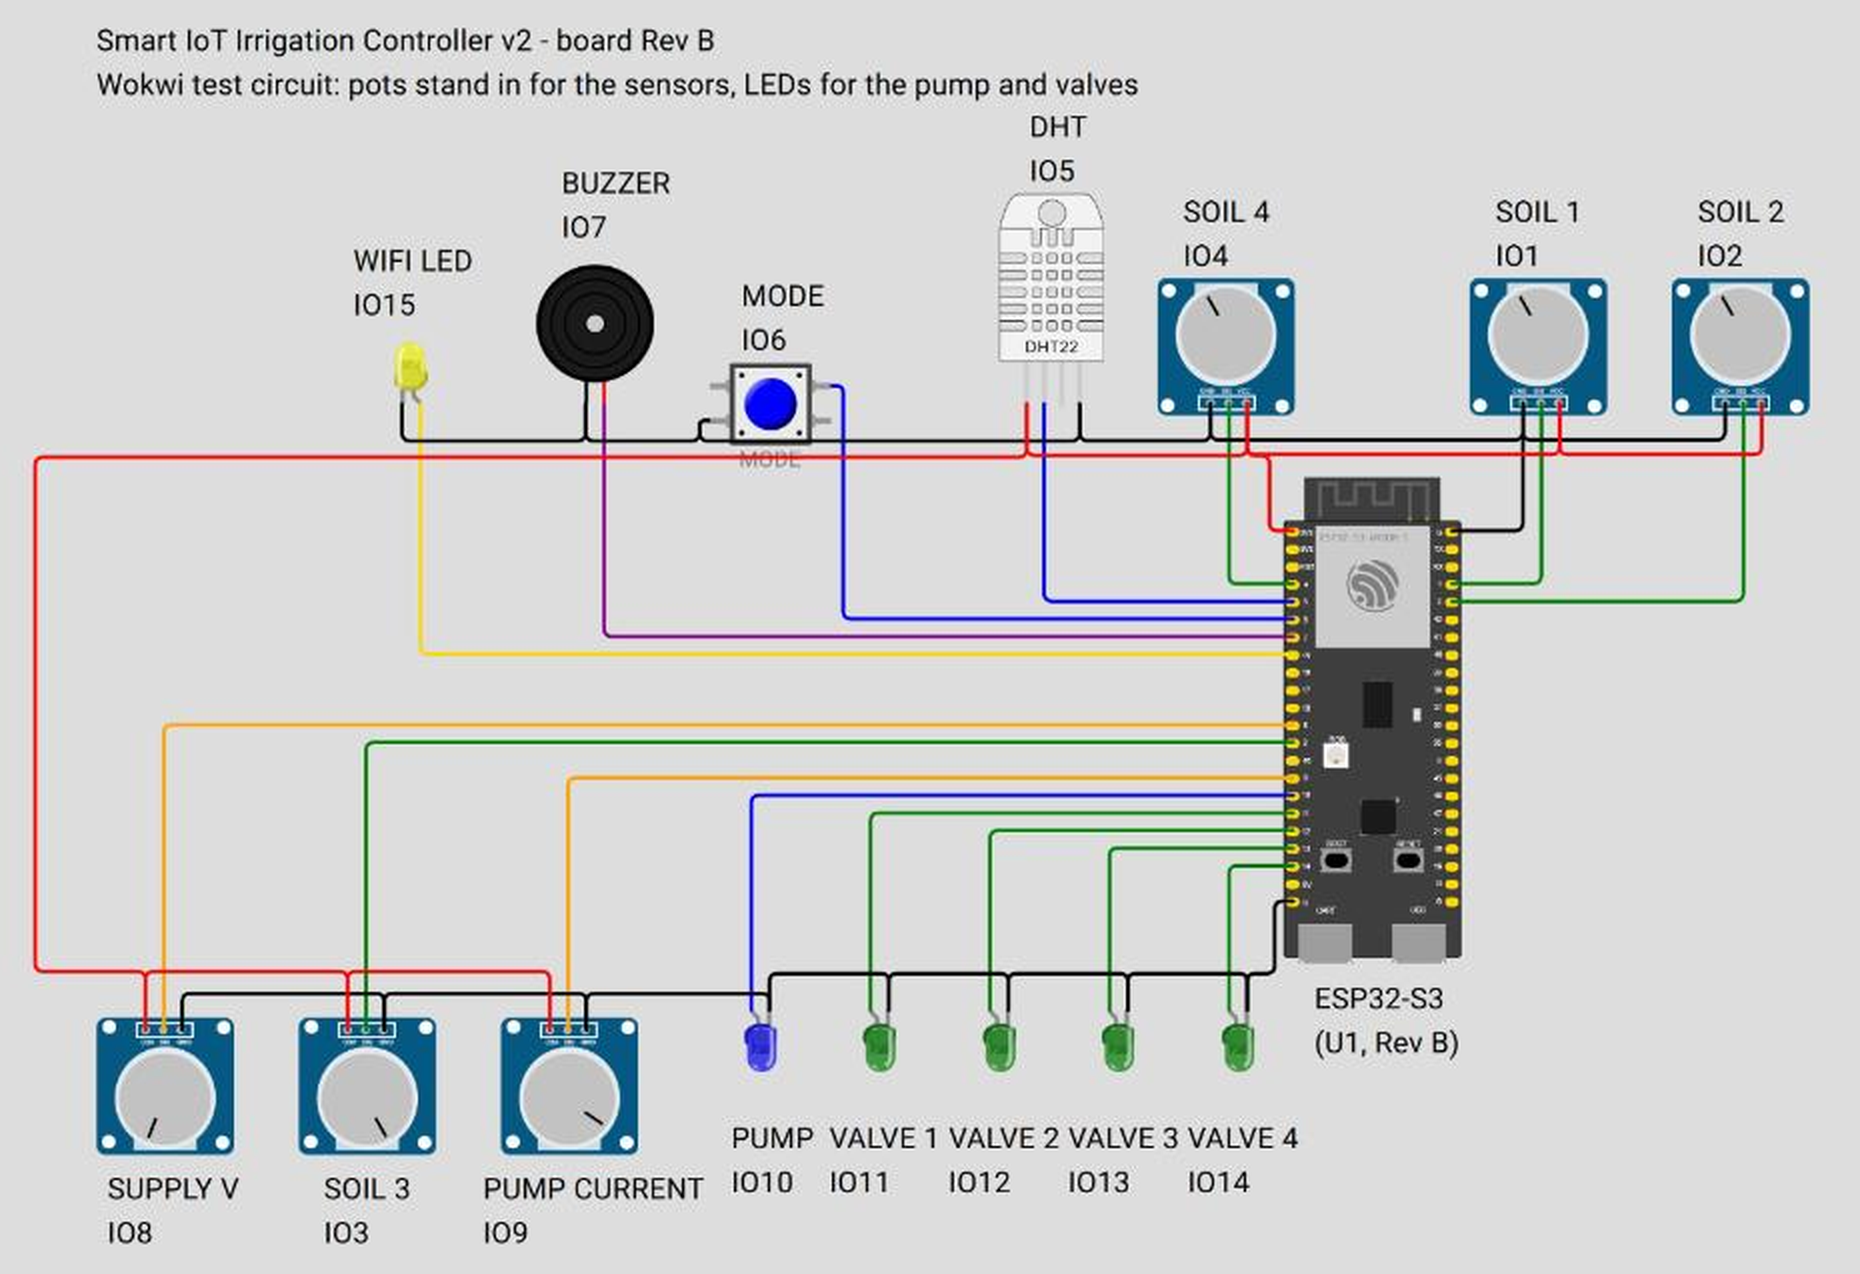
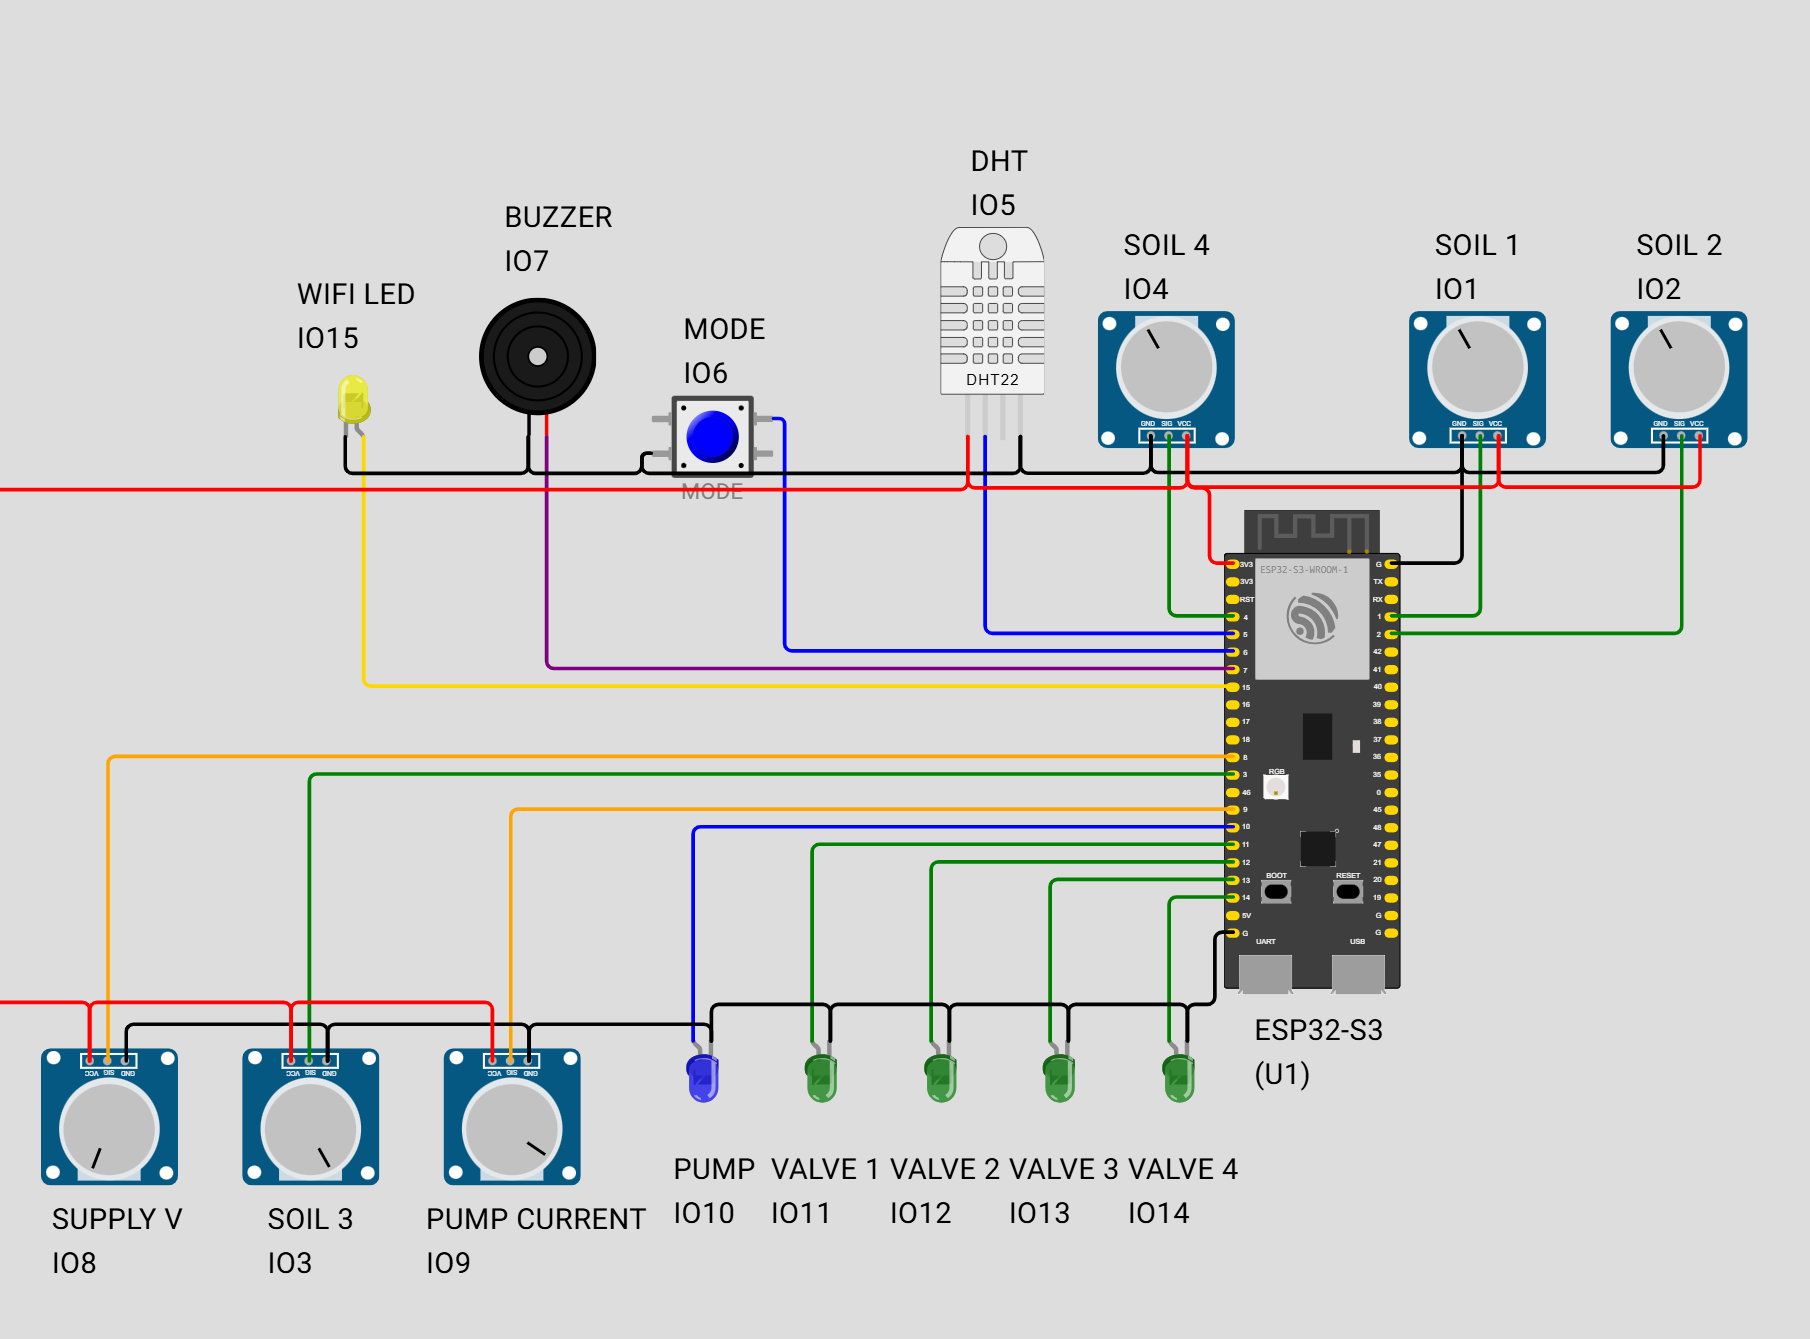
Update board pictures and charts
- images: 3D view and layout exported from EasyEDA, Wokwi circuit screenshot
- results/graphs: 8-hour run and fault response charts redrawn in Excel
- README shows the layout and the Excel charts

Changed region(s): [[0.0, 0.0, 0.9901, 0.9796]]

diff --git a/README.md b/README.md
@@ -41,6 +41,10 @@ The schematic is in [hardware/rev-b/schematic/RevB_Schematic.pdf](hardware/rev-b
 
 ![Rev B pump driver schematic](images/RevB_Schematic_Pump_Driver.png)
 
+The routed board, with the top copper in red, the bottom copper in blue and the ground pours on both layers:
+
+![Rev B PCB layout](images/RevB_PCB_Layout.png)
+
 ## Repository layout
 
 | Folder | What's inside |
@@ -108,11 +112,11 @@ python3 plot.py
 | Current-sense error during soft start | 0.01 A mean on Rev B (0.34 A on Rev A) |
 | Stalled pump at start-up | stopped at 2.54 A after 429 ms on Rev B (2.94 A, 499 ms on Rev A) |
 
-![Auto watering over 8 hours](results/graphs/RevB_Perf_1_Auto_Watering_8h.png)
+![Auto watering over 8 hours: soil moisture, valve and pump timeline, pump current](results/graphs/RevB_Excel_Auto_Watering_8h.png)
 
 ![Stalled start](results/graphs/RevB_Perf_5_Stalled_Start.png)
 
-![Fault response](results/graphs/RevB_Perf_2_Fault_Response.png)
+![Fault response: dry run, pump jam, supply drop](results/graphs/RevB_Excel_Fault_Response.png)
 
 ![Valve and pump sequencing](results/graphs/RevB_Perf_6_Sequencing.png)
 
